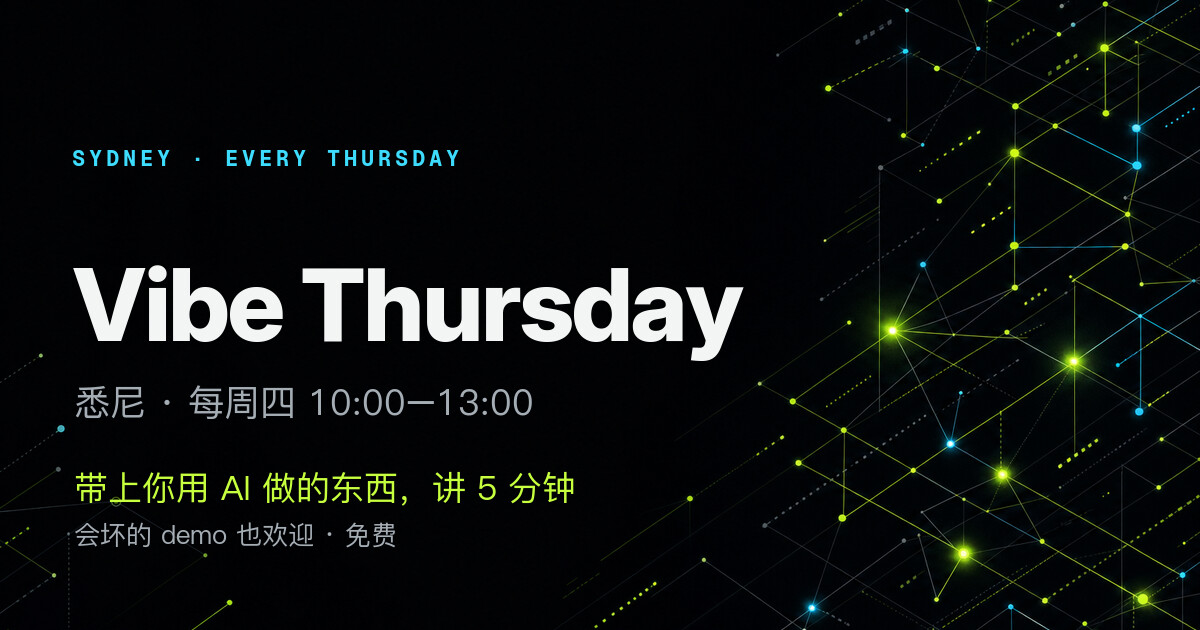
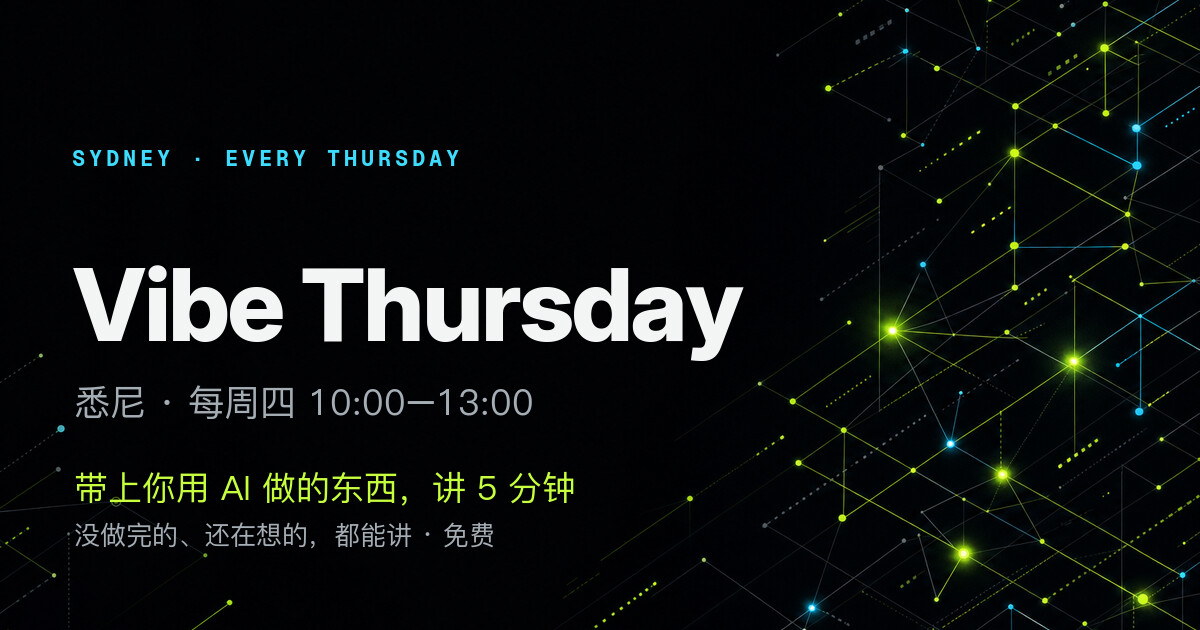
Stop promising a fixed venue, and widen "broken demos" to mean unfinished
"Same time, same place, every week. The venue does not rotate." was a promise
the plan already contradicts: the venue is meant to follow the headcount, from
a cafe table to a room with a screen past fifteen people. Promising it never
moves and then moving it costs more trust than being straight about it now. The
invariant that actually holds is the time, so that is what the rule promises;
the venue is described as fixed in Sydney CBD, changing only when the group
outgrows it, announced ahead rather than rotating week to week.

"Broken demos welcome" was also aiming at the wrong thing. The point is not
that it crashes — it is that it does not have to be finished, and does not have
to be a product at all. A piece of content, a workflow, or an idea someone is
still turning over all belong. Retitled "unfinished is fine", with the demo
slot's own description widened to match, so the word "demo" stops implying
software.

Both images carry that line too, so the OG card and the Xiaohongshu poster were
re-rendered.

Changed region(s): [[0.0617, 0.8143, 0.3392, 0.8746], [0.37, 0.8143, 0.4317, 0.8746]]

diff --git a/src/lib/content.ts b/src/lib/content.ts
@@ -24,7 +24,7 @@ export const copy = {
     meta: {
       title: "Vibe Thursday · 悉尼每周四的 AI 局",
       description:
-        "每周四上午，悉尼 CBD。带上你用 AI 做的任何东西，5 分钟讲给一屋子懂的人听。会坏的 demo 也欢迎。免费。",
+        "每周四上午，悉尼 CBD。带上你用 AI 做的任何东西，5 分钟讲给一屋子懂的人听。没做完的、还在想的，都能讲。免费。",
     },
 
     nav: {
@@ -57,8 +57,8 @@ export const copy = {
           body: "没有主讲嘉宾，没有汇报型 PPT，没有台上台下。笔记本传着看，随时打断提问。",
         },
         {
-          title: "会坏的 demo 也欢迎",
-          body: "跑不通的东西往往比跑通的更值得聊。这里不评判完成度，只看你到底试了什么。",
+          title: "不用做完，也不用是产品",
+          body: "做了一半的东西、一条内容、一个还在琢磨的想法，都能拿出来讲。这里不评判完成度——半成品反而更容易聊出东西来。",
         },
         {
           title: "展示可以，插播不行",
@@ -93,7 +93,7 @@ export const copy = {
         {
           time: "10:30–11:30",
           title: "Demo 轮",
-          note: "最多 3 个名额，每人 5 分钟，硬计时。想讲在报名时勾一下就行。",
+          note: "最多 3 个名额，每人 5 分钟，硬计时。讲什么都行：产品、内容、一段流程，或者只是最近在想的事。想讲在报名时勾一下。",
         },
         {
           time: "11:30–12:00",
@@ -113,7 +113,7 @@ export const copy = {
       title: "就这五条。",
       items: [
         "只来两个人也照办。",
-        "同一时间、同一地点，每周不变。不轮换场地。",
+        "时间雷打不动，每周四同一时段。场地固定在悉尼 CBD，只有人数坐不下时才换——换了会提前说，不会每周换来换去。",
         "免费，不售票。报名只是为了估人数。",
         "Demo 永远是可选的。有就讲，没有就听。",
         "展示可以，插播不行。你做的东西就是你的宣发，在自己的时段里大方讲；别人讲的时候别转成推销。只来收名单、抓人、拉客的，会被请出去。",
@@ -219,7 +219,7 @@ export const copy = {
     meta: {
       title: "Vibe Thursday · Sydney's weekly AI meetup",
       description:
-        "Every Thursday morning in Sydney CBD. Bring whatever you built with AI and show it in five minutes. Broken demos welcome. Free.",
+        "Every Thursday morning in Sydney CBD. Bring whatever you built with AI and show it in five minutes. Unfinished and still-just-an-idea both count. Free.",
     },
 
     nav: {
@@ -252,8 +252,8 @@ export const copy = {
           body: "No keynote, no status-report slides, no stage. Laptops get passed around and you interrupt with questions.",
         },
         {
-          title: "Broken demos welcome",
-          body: "The thing that does not work is usually the more interesting conversation. Nobody is grading polish here.",
+          title: "Unfinished is fine",
+          body: "It does not have to be a working product. Something half-built, a piece of content, an idea you are still turning over — all of it is worth five minutes. Nobody is grading how finished it is."
         },
         {
           title: "Show, don't sell",
@@ -288,7 +288,7 @@ export const copy = {
         {
           time: "10:30–11:30am",
           title: "Demo round",
-          note: "Three slots max, five minutes each, hard timer. Tick the box when you sign up.",
+          note: "Three slots max, five minutes each, hard timer. Anything goes: a product, a piece of content, a workflow, or just what you have been thinking about. Tick the box when you sign up.",
         },
         {
           time: "11:30am–12:00pm",
@@ -308,7 +308,7 @@ export const copy = {
       title: "All five of them.",
       items: [
         "It runs even if two people show up.",
-        "Same time, same place, every week. The venue does not rotate.",
+        "The time never moves. The venue stays in Sydney CBD and only changes when we outgrow it — announced in advance, never week to week.",
         "Free, no tickets. Signing up is only so we know how many chairs.",
         "Demos are always optional. Show something or just listen.",
         "Show, don't sell. What you built is your marketing — present it properly in your own slot, just never over someone else's. People here only to harvest contacts or hunt will be asked to leave.",

diff --git a/src/app/layout.tsx b/src/app/layout.tsx
@@ -7,7 +7,7 @@ export const metadata: Metadata = {
     : undefined,
   title: "Vibe Thursday · 悉尼每周四的 AI 局",
   description:
-    "每周四上午，悉尼 CBD。带上你用 AI 做的任何东西，5 分钟讲给一屋子懂的人听。会坏的 demo 也欢迎。免费。",
+    "每周四上午，悉尼 CBD。带上你用 AI 做的任何东西，5 分钟讲给一屋子懂的人听。没做完的、还在想的，都能讲。免费。",
   openGraph: {
     type: "website",
     siteName: "Vibe Thursday",

diff --git a/art/xhs-poster.html b/art/xhs-poster.html
@@ -186,7 +186,7 @@
 
     <p class="sub">
       产品、自动化、内容流水线、投放打法——<br>
-      带上来讲 <b>5 分钟</b>。<b>跑不通的一样欢迎。</b>
+      带上来讲 <b>5 分钟</b>。<b>没做完的一样算。</b>
     </p>
 
     <div class="chips">
